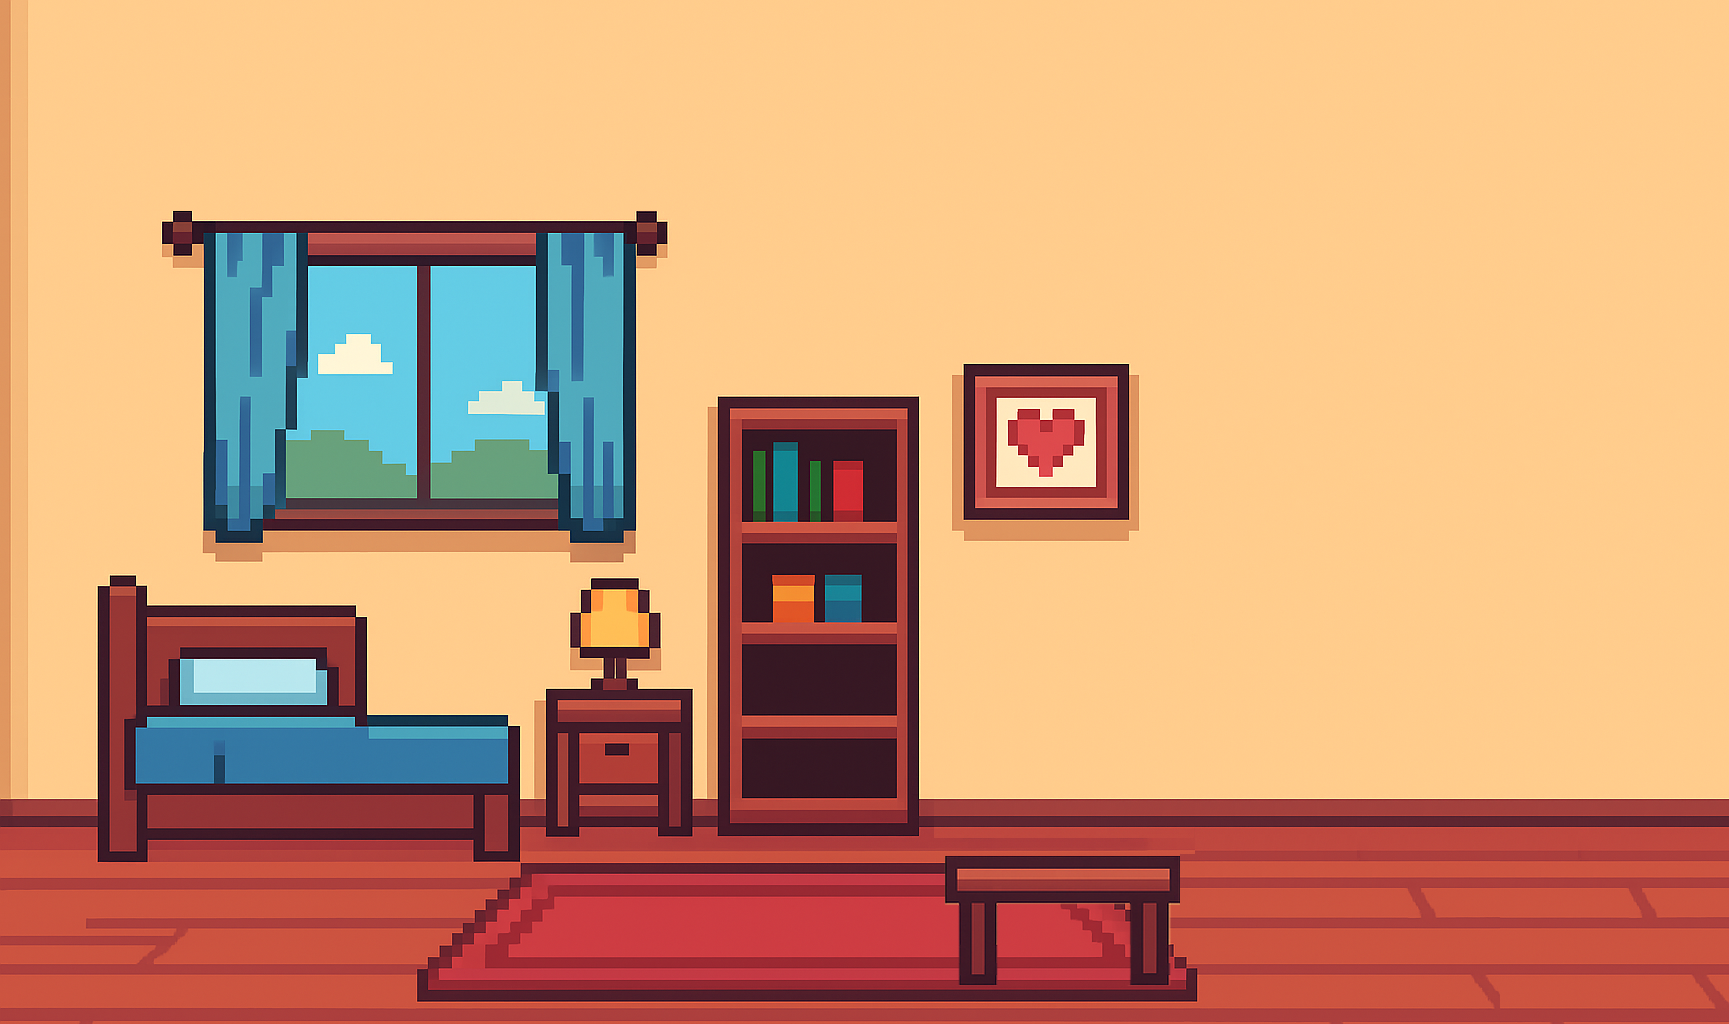
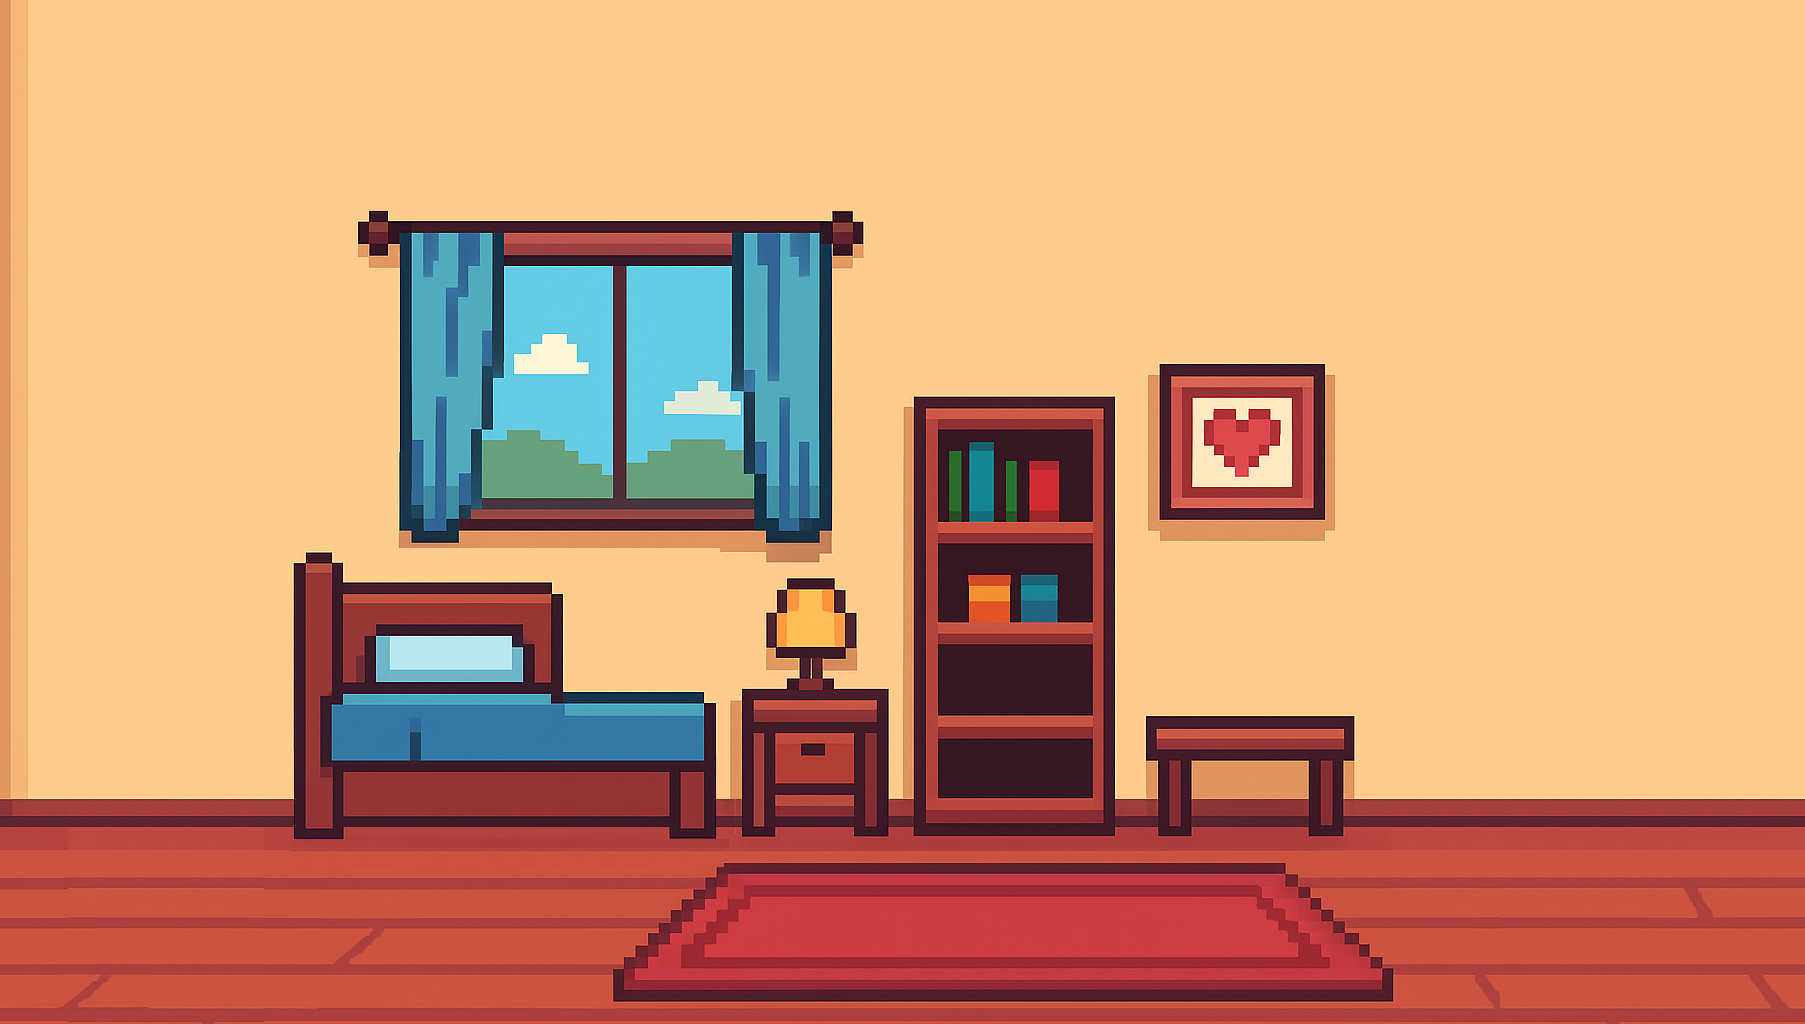
ajustando detalhes do cenário

diff --git a/src/core/GameScene.js b/src/core/GameScene.js
@@ -65,8 +65,8 @@ export default class GameScene extends Phaser.Scene {
     // PC
     new InteractiveObject(this, {
       key: 'pc',
-      x: width - 305,
-      y: height - 100,
+      x: width - 235,
+      y: height - 160,
       texture: 'pc',
       label: "Computador",
       dialogs: [
@@ -87,7 +87,7 @@ export default class GameScene extends Phaser.Scene {
     this.physics.add.collider(this.pc, this.ground.ground);
 
     // Player
-    this.player = setupPlayer(this, 60, height - 105);
+    this.player = setupPlayer(this, 60, height - 305);
 
     // Estado global do jogador
     this.playerState = createPlayerState();
